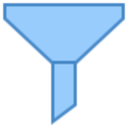
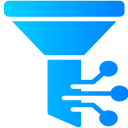
feat: 更新名称

diff --git a/service_worker.js b/service_worker.js
@@ -60,7 +60,7 @@ chrome.runtime.onMessage.addListener(msg => {
       if (tabs && tabs.length) {
         chrome.tabs.sendMessage(tabs[0].id, {...msg, to: 'content'});
       } else {
-        console.warn("[Ajax Interceptor] Please refresh your page on the webpage instead of devtools.")
+        console.warn("[Ajax Modifier] Please refresh your page on the webpage instead of devtools.")
       }
     })
   }

diff --git a/devtools.js b/devtools.js
@@ -1,6 +1,6 @@
 chrome.storage.local.get(['customFunction'], (result) => {
   if (result.customFunction?.panelPosition) {
-    chrome.devtools.panels.create('Ajax Interceptor', 'images/16.png', 'iframe/index.html', () => {});
+    chrome.devtools.panels.create('Ajax Modifier', 'images/16.png', 'iframe/index.html', () => {});
   }
 });
 

diff --git a/README.md b/README.md
@@ -1,6 +1,6 @@
 English | [简体中文](./README-zh.md)   
 
-<img src="https://github.com/YGYOOO/ajax-interceptor/raw/master/readmeImgs/icon.png" width="300">   
+<img src="https://github.com/YGYOOO/ajax-interceptor/raw/master/readmeImgs/Ajax_Modifier.png" width="300">   
 
 [![](https://img.shields.io/chrome-web-store/v/nhpjggchkhnlbgdfcbgpdpkifemomkpg.svg?logo=Google%20Chrome&logoColor=white&color=blue&style=flat-square)](https://chrome.google.com/webstore/detail/ajax-interceptor/nhpjggchkhnlbgdfcbgpdpkifemomkpg) 
 [![](https://img.shields.io/chrome-web-store/stars/nhpjggchkhnlbgdfcbgpdpkifemomkpg.svg?logo=Google%20Chrome&logoColor=white&color=blue&style=flat-square)](https://chrome.google.com/webstore/detail/nhpjggchkhnlbgdfcbgpdpkifemomkpg) 

diff --git a/README-zh.md b/README-zh.md
@@ -1,6 +1,6 @@
 [English](./README.md) | 简体中文
 
-<img src="https://github.com/YGYOOO/ajax-interceptor/raw/master/readmeImgs/icon.png" width="300">   
+<img src="https://github.com/YGYOOO/ajax-interceptor/raw/master/readmeImgs/Ajax_Modifier.png" width="300">   
 
 [![](https://img.shields.io/chrome-web-store/v/nhpjggchkhnlbgdfcbgpdpkifemomkpg.svg?logo=Google%20Chrome&logoColor=white&color=blue&style=flat-square)](https://chrome.google.com/webstore/detail/ajax-interceptor/nhpjggchkhnlbgdfcbgpdpkifemomkpg) 
 [![](https://img.shields.io/chrome-web-store/stars/nhpjggchkhnlbgdfcbgpdpkifemomkpg.svg?logo=Google%20Chrome&logoColor=white&color=blue&style=flat-square)](https://chrome.google.com/webstore/detail/nhpjggchkhnlbgdfcbgpdpkifemomkpg) 
